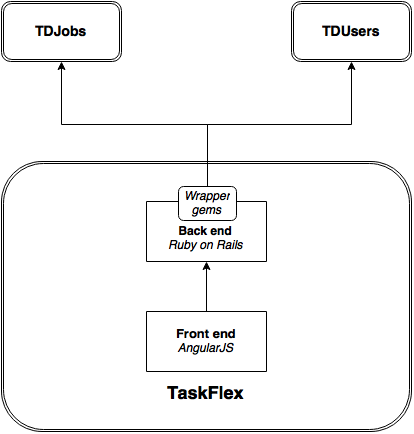
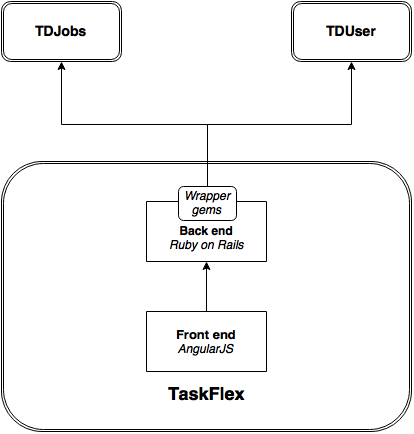
Changing all private references to public repositories. Dummy configuration in env_vars.json

diff --git a/README.md b/README.md
@@ -26,12 +26,12 @@ how to deploy and use the project in your own environment.
 connection it took around 45 minutes.
 
 ```bash
-bash -c "$(curl -s https://raw.githubusercontent.com/talosdigital/tasksecurity/develop/raw/init.sh?token=AFBX9X21lRkIF4paPIEasQA8CffQN9_hks5Wexc4wA%3D%3D)"
+bash -c "$(curl -s https://raw.githubusercontent.com/talosdigital/TaskFlex/master/raw/init.sh)"
 ```
 
 The above *all-in-one* [bash] script will do the hard work for you. It will
-be perfect if you only want to see TaskFlex running and working alongside TDJobs
-and TDUser, and play with them.
+be perfect if you only want to see TaskFlex running and working alongside [TDJobs]
+and [TDUser], and play with them.
 
 The only things you need to have are (notice starred items before installing):
 - [Docker]\* installed.
@@ -49,7 +49,7 @@ The only things you need to have are (notice starred items before installing):
 The above command will, in respective order:
   1. Create a working directory.
   2. Check installation of required programs.
-  3. Clone TaskFlex, [TDJobs] and [TDUsers] repositories.
+  3. Clone TaskFlex, [TDJobs] and [TDUser] repositories.
   4. Download a *docker-compose* file with link, build and execute instructions
      for Docker. (*Don't worry, it is all automatic*).
   5. Download and build required images and containers.
@@ -93,7 +93,7 @@ service, and **taskers** to apply or being invited to a particular job.
 
 TaskFlex has two main components, we have got a [front end] built in AngularJS
 and a [back end] developed in Ruby on Rails. TaskFlex’s back end is an **API**
-which uses 2 other services: [TDUsers] and [TDJobs], which handle user/ accounts
+which uses 2 other services: [TDUser] and [TDJobs], which handle user/ accounts
 logic, and the job marketplace logic, respectively.
 
 In order to clarify the above description, take a look at the following diagram:
@@ -104,8 +104,11 @@ In order to clarify the above description, take a look at the following diagram:
 
 You may be wondering what is *Wrapper gems*. Well, they are simple Ruby gems
 that make an abstraction of HTTP communication between our TaskFlex back end
-and both TDJobs and TDUsers services, through models and methods, making easier
-the usage of the mentioned services.
+and both TDJobs and TDUser services, through models and methods, making easier
+the usage of the mentioned services. Take a look at them in the following links:
+
+- [TDJobsGem](https://github.com/talosdigital/TDJobsGem)
+- [TDUserGem](https://github.com/talosdigital/TDUserGem)
 
 ## Try it yourself
 
@@ -135,22 +138,22 @@ Version Manager (RVM)]
 > - [Rails] - 4.2.3+
 
 - [Redis] - 3.0.5
-- [TDJobs] - x.x.x
-- [TDUsers] - x.x.x
+- [TDJobs] - 1.0.0
+- [TDUser] - 1.0.0
 
 ### Download
 In order to run get the project, you can directly download and extract the
-[`.zip`](https://github.com/talosdigital/tasksecurity/archive/master.zip)
+[`.zip`](https://github.com/talosdigital/TaskFlex/archive/master.zip)
 package,
 
 or clone it using git:
 ```bash
-$ git clone https://github.com/talosdigital/tasksecurity.git
+$ git clone https://github.com/talosdigital/TaskFlex.git
 ```
 
 Once you have downloaded the project, you will find the following structure:
 ```
-taskflex/
+TaskFlex/
 ├── frontend/
 │   ├── app/
 │   └── spec/
@@ -230,7 +233,7 @@ following command.
 $ cd backend/
 ```
 > **Note:** Previous command assuming you are in the project's root directory,
-i.e. `taskflex/`.
+i.e. `TaskFlex/`.
 
 ##### Setup environment variables
 
@@ -238,7 +241,7 @@ Many of the following configuration steps use environment
 variables, notice that **`config/environment.rb`** file loads another file
 called **`environment_variables.rb`** which is automatically created (through an initializer)
 according to the information provided in the **`config/env_vars.json`** file. If you open it you'll
-find some *dummy* configuration which won't work. You should modify the `.json` file
+find some *dummy* configuration which **won't work**. You should modify the `.json` file
 according to your configuration.
 
 ##### Install application dependencies
@@ -263,7 +266,7 @@ consume that running service.
 With your favourite editor, open the `td_jobs_config.rb` file which is located
 in `app/config/initializers/` directory. There you will find two configurations:
 `application_secret` and `base_url`. Setup those configuration variables
-accordingly to your TDJobs instance.
+accordingly to your running TDJobs instance.
 
 * `application_secret` is defined by TDJobs configuration, every request made by
 TaskFlex will contain a header with this secret, telling that it is an
@@ -273,25 +276,25 @@ example value for this variable is: `http://localhost:3000/api/v1`.
 
 > *Default production values are loaded from environment configuration*
 
-##### Configure TDUsers
-> Assuming that you already followed the given steps in [TDUsers] README and
+##### Configure TDUser
+> Assuming that you already followed the given steps in [TDUser] README and
 have a running instance of it, now it is time to configure our TaskFlex back
 end to consume that running service.
 
 With your favourite editor, open the `td_users_config.rb` file which is located
 in `app/config/initializers/` directory. There you will find the following
-configurations, which you should setup accordingly to your running TDUsers
+configurations, which you should setup accordingly to your running TDUser
 intance:
 
-* `application_secret` is defined by TDUsers configuration, every request made
+* `application_secret` is defined by TDUser configuration, every request made
 by TaskFlex will contain a header with this secret, telling that it is an
 authorized application.
-* `base_url` is the URL and port where your TDUsers is running, an example value
+* `base_url` is the URL and port where your TDUser is running, an example value
 for this variable is: `http://localhost:9001`.
-* `user_url` is the base path where the *user* module defined by TDUsers is
-located. This variable is `/api/v1/user/`  by default.
-* `auth_url` is the base path where the *auth* module defined by TDUsers is
-located. This variable is `/api/v1/auth/`  by default.
+* `user_url` is the base path where the *user* module defined by TDUser is
+located. This variable is `/api/v1/user/` by default.
+* `auth_url` is the base path where the *auth* module defined by TDUser is
+located. This variable is `/api/v1/auth/` by default.
 
 > *Default production values are loaded from environment configuration*
 
@@ -445,7 +448,7 @@ See [CONTRIBUTING](CONTRIBUTING.md) for details.
 [back end]:backend/
 [front end]:frontend/
 [TDJobs]:http://github.com/talosdigital/TDJobs
-[TDUsers]:http://github.com/talosdigital/TDUser
+[TDUser]:http://github.com/talosdigital/TDUser
 [Node Version Manager (NVM)]:https://github.com/creationix/nvm
 [Node.js]:https://nodejs.org/
 [Bower]:http://bower.io/

diff --git a/CONTRIBUTING.md b/CONTRIBUTING.md
@@ -10,7 +10,7 @@ Here are some of them:
 
 ## Reporting bugs and issues
 Head over to [this repository's issues page]
-(https://github.com/talosdigital/tasksecurity/issues), and open a new one!
+(https://github.com/talosdigital/TaskFlex/issues), and open a new one!
 It's very helpful if you specify as much as you can about the environment you're
 working on, and the steps to reproduce the issue!
 
